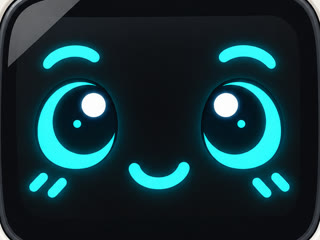
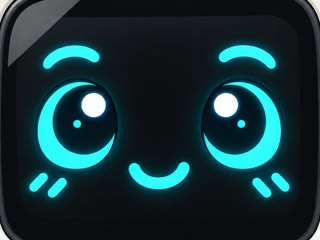
fix CoreS3 face image decoding

diff --git a/src/main.cpp b/src/main.cpp
@@ -289,7 +289,7 @@ void onHubEvent(WStype_t type, uint8_t* payload, size_t length) {
       hubConnected = true;
       hubSocket.sendTXT(String("{\"type\":\"hello\",\"device_id\":\"") +
                         AppConfig::DEVICE_ID +
-                        "\",\"hardware\":\"CoreS3\",\"firmware\":\"1.0.0-alpha.6\"}");
+                        "\",\"hardware\":\"CoreS3\",\"firmware\":\"1.0.0-alpha.7\"}");
       sendDeviceSettings();
       sendCapabilities();
       showNotification("Taco Hub connected");
@@ -720,7 +720,16 @@ void drawFace(uint32_t now) {
     }
   }
 
-  canvas.drawJpg(start, static_cast<size_t>(end - start), 0, 0, 320, 240);
+  canvas.fillScreen(BG);
+  const bool faceRendered =
+      canvas.drawJpg(start, static_cast<size_t>(end - start), 0, 0, 320, 240);
+  if (!faceRendered) {
+    canvas.fillRoundRect(8, 8, 304, 224, 28, PANEL);
+    drawBrows();
+    drawEye(100, 111, 1.0f, 0.0f, 0.0f, -1);
+    drawEye(220, 111, 1.0f, 0.0f, 0.0f, 1);
+    drawMouth();
+  }
   canvas.fillCircle(309, 11, 4,
                     hubConnected ? (conversationActive ? CYAN : CYAN_DIM) : PINK);
   if (!notification.isEmpty() && now < notificationUntil) {

diff --git a/docs/design/faces/README.md b/docs/design/faces/README.md
@@ -29,7 +29,7 @@ options in `publishDiscovery()`.
 
 # Shared Taco face set
 
-Firmware `1.0.0-alpha.6` embeds the eight faces from the approved ChatGPT shared collection as LCD-sized JPEG assets. The firmware uses them as follows:
+Firmware `1.0.0-alpha.7` embeds the eight faces from the approved ChatGPT shared collection as LCD-sized, baseline 4:2:0 JPEG assets. The firmware uses them as follows:
 
 - happy: idle
 - startled: conversation wake-up
